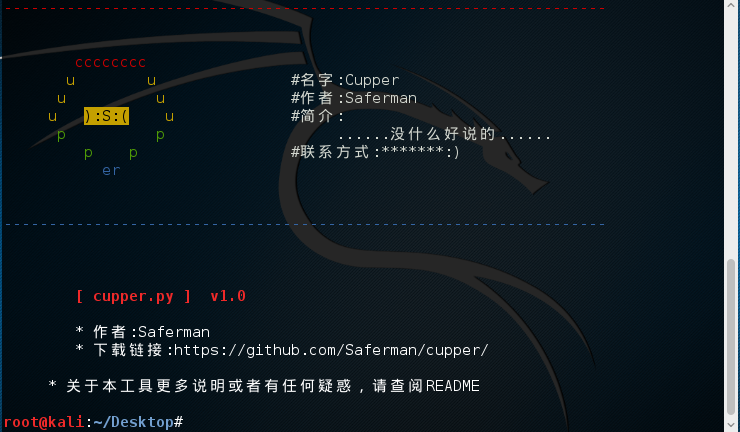
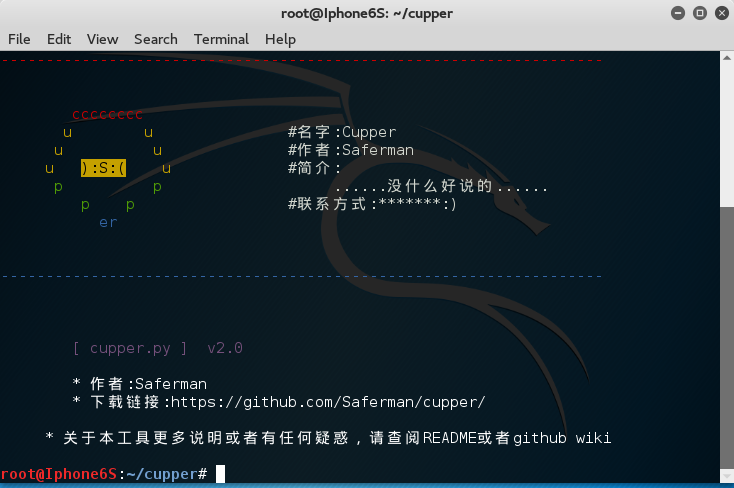
Version

diff --git a/README.md b/README.md
@@ -4,6 +4,10 @@
 
 Cupper的名字含义是be better than common user passwords profiler(cupp)。在V1.0的时候我就下定决心要把这款工具做成国内最棒的社工密码生成器，直到现在国内也没有独立的专门生成社工密码的最新工具。在经过了半年的时间终于完成了V2.0版本，相比第一版这次版本的功能有了很大的提升，日后还会持续对这个工具进行更新。希望这款工具能对你的学习和渗透测试方面起到积极作用。
 
+### 截图
+Version信息:
+![Image text](https://raw.githubusercontent.com/Saferman/cupper/master/images/version.png)  
+
 ### 功能  
 
 cupper可以实现的功能如下：
